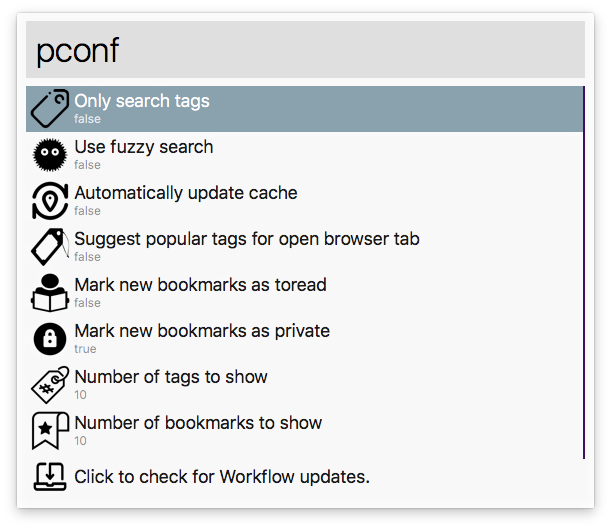
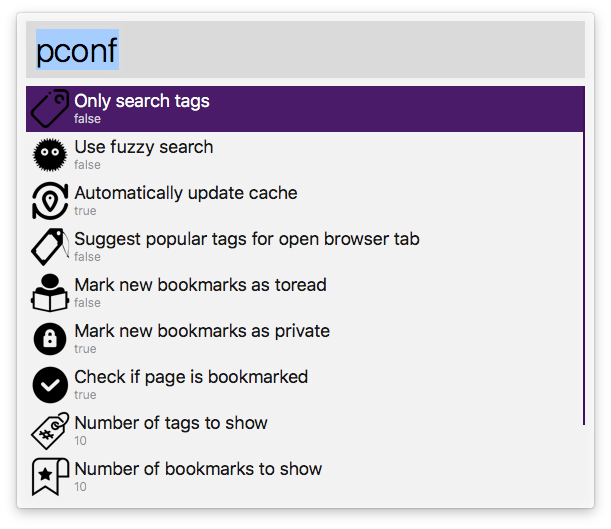
Add settings for notifying if page is already bookmarked.
- Update CHANGELOG.md
- Update README.md

diff --git a/src/commands/config.rs b/src/commands/config.rs
@@ -20,6 +20,7 @@ pub fn run(x: SubCommand) {
             tags_only,
             auto_update,
             suggest_tags,
+            check_bookmarked_page,
         } => {
             print_config = display;
             config = Config::setup().unwrap_or_else(|err| {
@@ -46,6 +47,7 @@ pub fn run(x: SubCommand) {
             tags_only.map(|val| config.tag_only_search = val);
             auto_update.map(|val| config.auto_update_cache = val);
             suggest_tags.map(|val| config.suggest_tags = val);
+            check_bookmarked_page.map(|val| config.page_is_bookmarked = val);
         }
         _ => unreachable!(),
     }
@@ -101,6 +103,11 @@ fn show_config(config: &Config) {
                 .subtitle(format!("{:?}", config.private_new_pin))
                 .arg("pset shared")
                 .icon_path("private.png")
+                .into_item(),
+            ItemBuilder::new("Check if page is bookmarked")
+                .subtitle(format!("{:?}", config.page_is_bookmarked))
+                .arg("pset check_bookmarked")
+                .icon_path("check_bookmarked_page.png")
                 .into_item(),
             ItemBuilder::new("Number of tags to show")
                 .subtitle(format!("{:?}", config.tags_to_show))

diff --git a/src/commands/list.rs b/src/commands/list.rs
@@ -62,8 +62,8 @@ impl<'api, 'pin> Runner<'api, 'pin> {
             let mut alfred_items = vec![];
 
             // First try to get list of popular tags from Pinboard
-            let suggest_hints = suggest.unwrap_or(config.suggest_tags);
-            popular_tags = if suggest_hints {
+            let tag_suggestion = suggest.unwrap_or(config.suggest_tags);
+            popular_tags = if tag_suggestion {
                 // if suggest.unwrap_or(config.suggest_tags) {
                 suggest_tags()
             } else {
@@ -134,7 +134,7 @@ impl<'api, 'pin> Runner<'api, 'pin> {
                         .collect::<Vec<Item>>();
                 }
             }
-            if suggest_hints && is_page_bookmarked(&pinboard) {
+            if config.page_is_bookmarked && is_page_bookmarked(&pinboard) {
                 let bookmark_present = ItemBuilder::new("You already have the bookmark!")
                     .icon_path("bookmark-delete.png")
                     .into_item();

diff --git a/src/workflow_config.rs b/src/workflow_config.rs
@@ -34,6 +34,8 @@ pub struct Config {
     pub toread_new_pin: bool,
     /// Flag to suggest popular tags for the browser's current url
     pub suggest_tags: bool,
+    /// Flag to check if browser's page is already bookmarked
+    pub page_is_bookmarked: bool,
     /// Flag to update cache after each bookmark saving automatically.
     pub auto_update_cache: bool,
     /// Authentication Token
@@ -60,6 +62,7 @@ impl<'a> Config {
             private_new_pin: true,
             toread_new_pin: false,
             suggest_tags: false,
+            page_is_bookmarked: true,
             auto_update_cache: true,
             auth_token: String::new(),
             update_time: get_epoch(),

diff --git a/src/cli.rs b/src/cli.rs
@@ -53,6 +53,14 @@ pub enum SubCommand {
         /// When posting a new bookmark, show 3 popular tags for the URL (if available). [default: true]
         #[structopt(name = "suggest_tags", short = "o", long = "suggest-tags")]
         suggest_tags: Option<bool>,
+
+        /// Check if the current browser page is already pinned. [default: true]
+        #[structopt(
+            name = "check_bookmarked_page",
+            short = "p",
+            long = "check-bookmarked-page"
+        )]
+        check_bookmarked_page: Option<bool>,
     },
     #[structopt(name = "list")]
     /// Lists all bookmarks (default) or tags.

diff --git a/README.md b/README.md
@@ -150,6 +150,7 @@ On top of using `pconf`, you can directly type following commands to also adjust
 - `pset suggest_tags`: When posting a new bookmark, list popular tags for the active page. Note that this information is fetched from Pinboard and sometimes is not very _accurate_.
 - `pset shared`: Mark all new bookmarks as _shared_.
 - `pset toread`: Mark all new bookmarks as _toread_.
+- `pset check_bookmarked`: Notify if active page is already bookmarked.
 - `pset tagonly`: Only search within _tag_ field while doing any look-up.
 - `pset auto`: After posting a new bookmark, automatically update the local cache.
 - `pset tags`: Set number of tags to show: `pset tags 25`
@@ -193,7 +194,7 @@ When fuzzy search is enabled, the tags/bookmarks that contain the query letters 
 ---
 
 ## Known Issues<a name="known_issues"></a>
-- Posting bookmark from Firefox while tag suggestions is enabled is broken. Also deleting bookmarks using `pind` won't work when Firefox is your active browser. Reason: Alfred intercepts <kbd>Command ⌘-L</kbd> that's used in AppleScript to focus location bar of Firefox. This focus is needed to get url and other info out of Firefox. Unfortunately Firefox does not offer any better way of interacting with it from outside world programatically.
+- **Firefox**: While tag suggestions and "Check if page is bookmarked" options are enabled, posting bookmark from Firefox is broken. Deleting bookmarks using `pind` won't work when Firefox is your active browser. Reason: Firefox does not properly support interacting with it programatically.
 - This workflow is setup to work with Aflred 3. It may or may not work with previous version as it has not been tested for them.
 
 ## TODO

diff --git a/CHANGELOG.md b/CHANGELOG.md
@@ -8,6 +8,15 @@ and this project adheres to [Semantic Versioning](https://semver.org/spec/v2.0.0
 ### Changed
 - Changes before release points will be listed here
 
+## [0.14.9] - 2019-02-13
+### Added
+- Add settings for notifying if page is already bookmarked.
+
+[]#25](https://github.com/spamwax/alfred-pinboard-rs/issues/21)
+## [0.14.8] - 2019-02-13
+### Fixed
+- Workaround for Firefox ([Fixes #25](https://github.com/spamwax/alfred-pinboard-rs/issues/21))
+
 ## [0.14.7] - 2019-01-30
 ### Added
 - Support [Brave Browser](brave.com)
